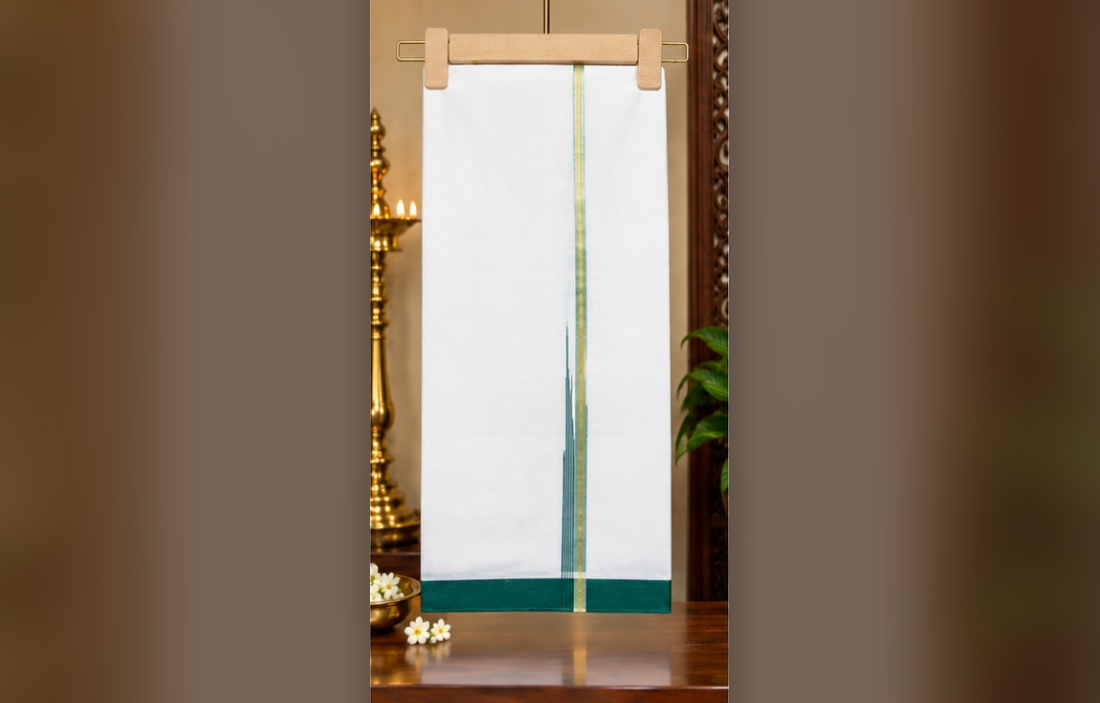
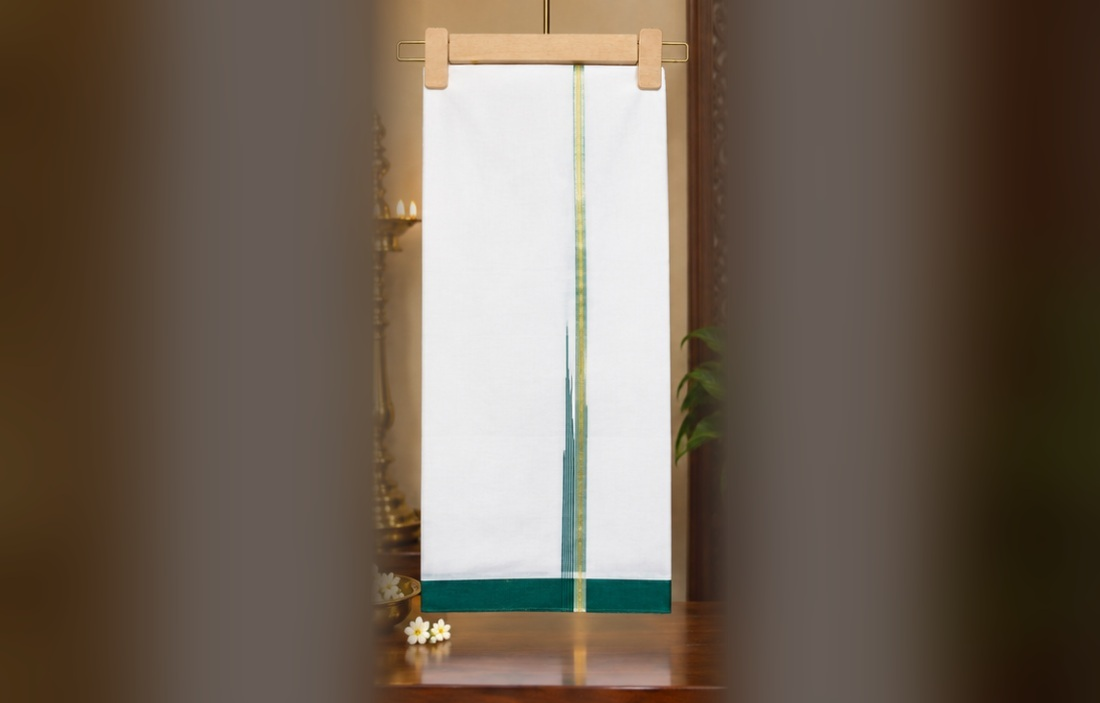
Hero image and scroll update

diff --git a/styles.css b/styles.css
@@ -918,15 +918,15 @@ body.whatsapp-qr-open {
 .hero-slide.active{opacity:1}
 .hero-slide-cover{object-fit:cover;object-position:center right}
 .hero-slide-contain{object-fit:contain;object-position:center;background:#2b160b}
-.hero-image.hero-first-slide:after{content:"";position:absolute;z-index:2;left:0;top:0;bottom:0;width:145px;pointer-events:none;background:linear-gradient(90deg,#2a140b 0%,rgba(42,20,11,.96) 58%,rgba(42,20,11,0) 100%)}
+.hero-image.hero-first-slide:after{display:none}
 .hero-image .slide{z-index:5;top:50%;transform:translateY(-50%);cursor:pointer;display:flex;align-items:center;justify-content:center;line-height:1}
 .hero-image .slide.left{left:14px}
 .hero-image .slide.right{right:14px}
 .hero-image .dots{z-index:5;position:absolute;bottom:16px;left:50%;transform:translateX(-50%);display:flex;gap:8px}
 .hero-dot{width:9px;height:9px;border:1px solid #fff;border-radius:50%;background:transparent;padding:0;cursor:pointer;box-shadow:0 1px 4px #0008}
 .hero-dot.active{background:#ecc67f;border-color:#ecc67f;transform:scale(1.08)}
-@media(max-width:850px){.hero-image{height:430px}.hero-slide-contain{object-fit:contain}.hero-image.hero-first-slide:after{width:95px}.hero-image .slide.left{left:10px}.hero-image .slide.right{right:10px}}
-@media(max-width:520px){.hero-image{height:390px}.hero-image.hero-first-slide:after{width:72px}.hero-image .dots{bottom:12px;gap:7px}.hero-dot{width:8px;height:8px}}
+@media(max-width:850px){.hero-image{height:430px}.hero-slide-contain{object-fit:contain}.hero-image.hero-first-slide:after{display:none}.hero-image .slide.left{left:10px}.hero-image .slide.right{right:10px}}
+@media(max-width:520px){.hero-image{height:390px}.hero-image.hero-first-slide:after{display:none}.hero-image .dots{bottom:12px;gap:7px}.hero-dot{width:8px;height:8px}}
 
 /* Build 28: resilient hero fallback so the first dhoti is never blank. */
 .hero-image{background:#2b160b url('/assets/hero-scroll-1.jpg') center/cover no-repeat}

diff --git a/index.html b/index.html
@@ -158,7 +158,7 @@
 <script>
 document.querySelector('.menu').onclick=()=>document.querySelector('#nav').classList.toggle('open');
 </script>
-<script src="/hero-slider.js?v=28"></script>
+<script src="/hero-slider.js?v=31"></script>
 <script src="storefront.js?v=25"></script>
 </body>
 </html>

diff --git a/BUILD31_HERO_SCENES.md b/BUILD31_HERO_SCENES.md
@@ -1,0 +1,1 @@
+Build 31: text-free first hero scene; slides 2-6 use full warm scene backgrounds; slider controls retained.
